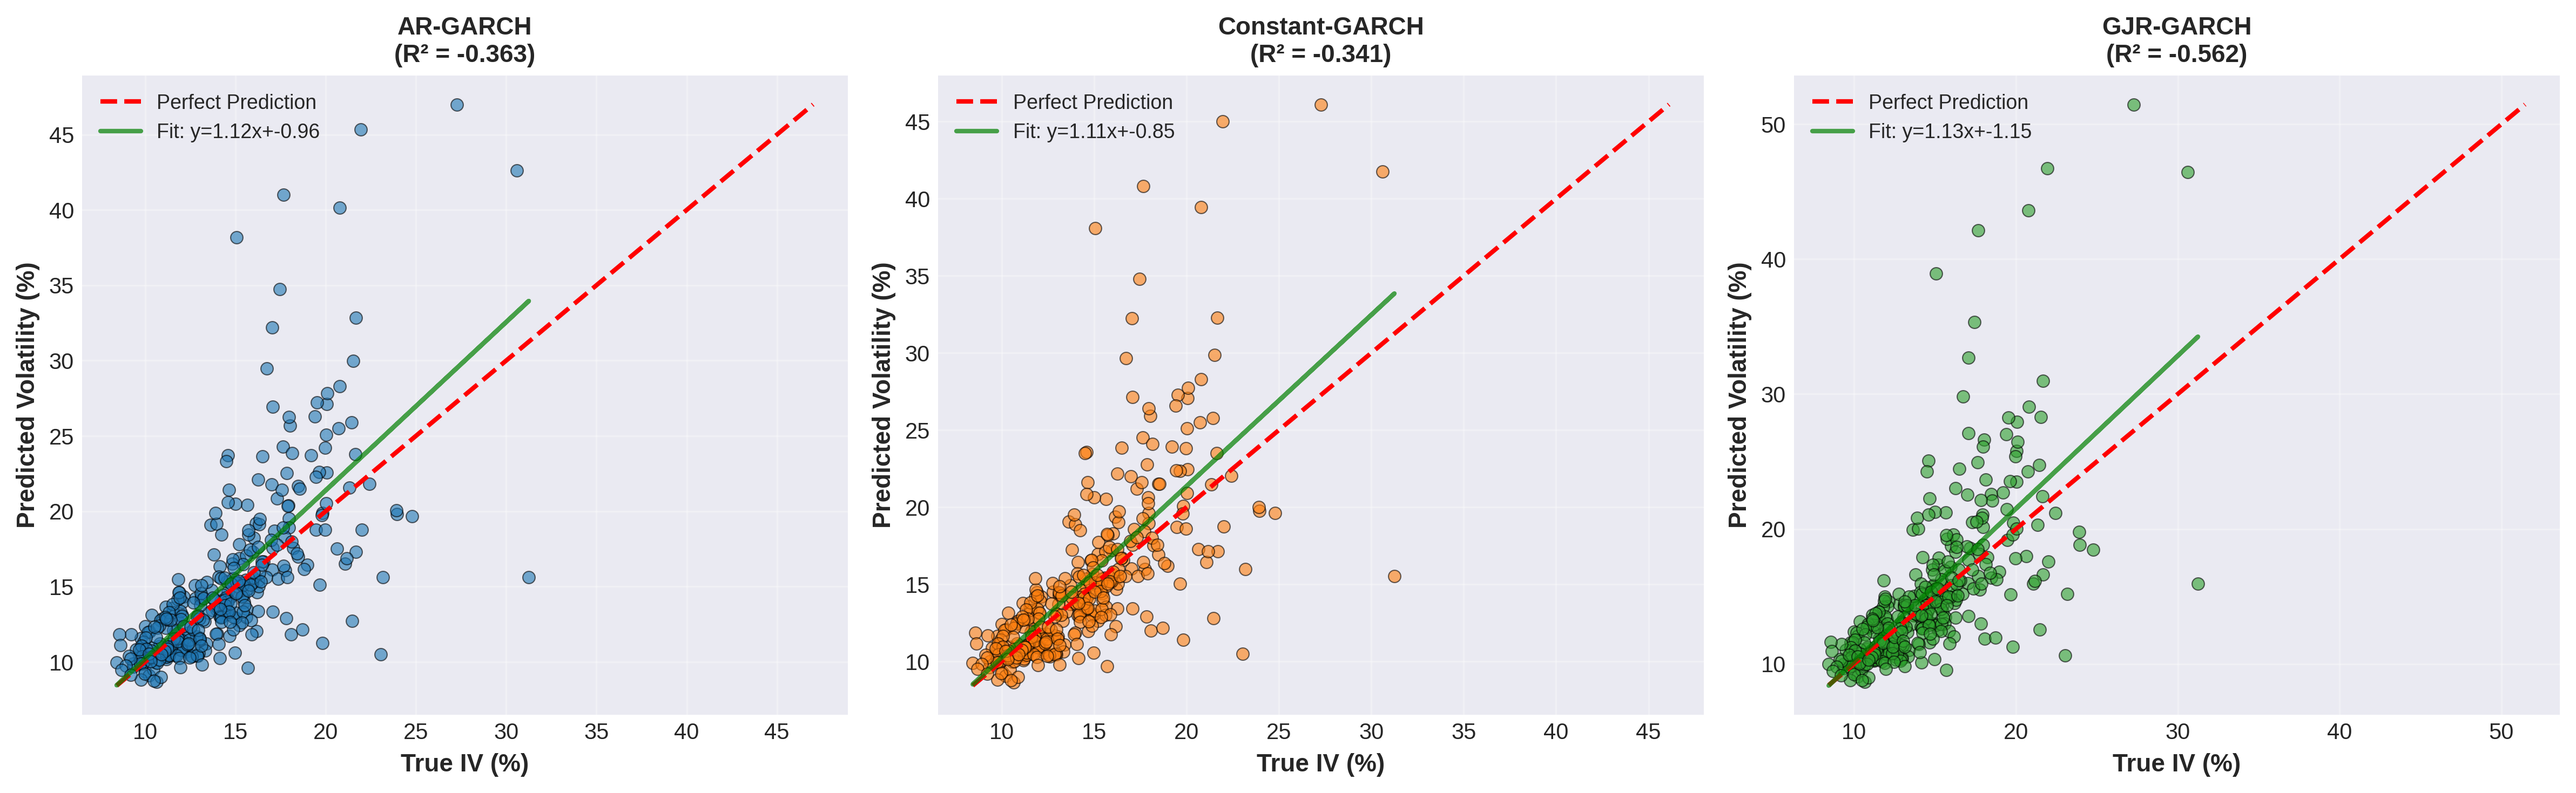
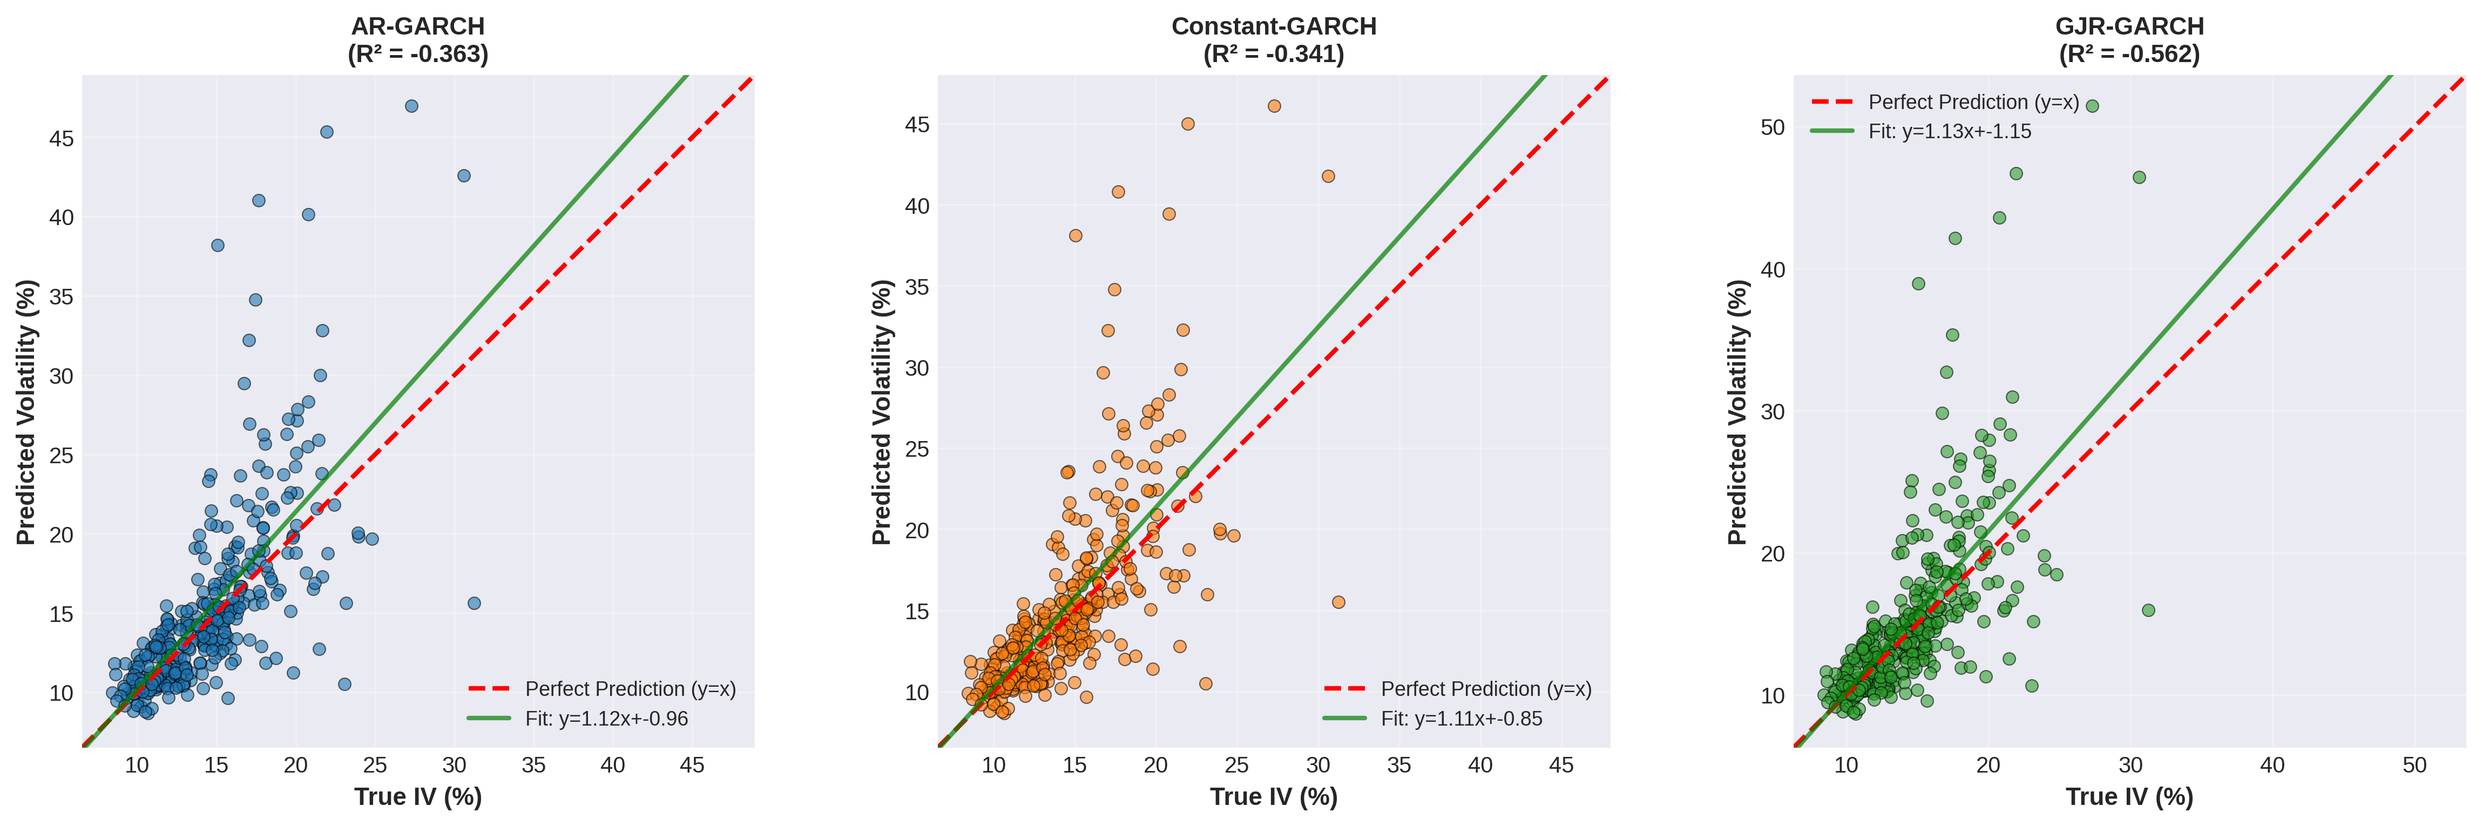
Fix scatter plot visualization issues
问题：
1. x轴和y轴范围不一致，导致45度线看起来不是45度
2. 图形纵横比不是1:1，视觉上扭曲
3. 回归线只画在数据点范围内，看起来太短
4. 图例说明不够清晰

修复：
1. 设置相同的xlim和ylim（基于数据的最大最小值）
2. 添加5%的padding让图形更美观
3. 设置aspect='equal'确保1:1纵横比，45度线真的是45度
4. 回归线画穿整个坐标轴范围，不只是数据点范围
5. 改进图例："Perfect Prediction (y=x)"更清楚
6. 使用zorder确保线条层次正确

现在散点图可以正确显示：
- 红色虚线(y=x)真的是45度
- 绿色回归线(y=1.11x-0.85)穿过整个图形
- 可以清楚看出预测值系统性高于真实值

diff --git a/garch_volatility_modeling.py b/garch_volatility_modeling.py
@@ -406,15 +406,28 @@ for idx, model_name in enumerate(forecasts.keys()):
 
     axes[idx].scatter(true_valid, pred_valid, alpha=0.6, s=30, color=colors[idx], edgecolor='black', linewidth=0.5)
 
-    # Add diagonal line (perfect prediction)
+    # Determine axis range (use same range for both axes to make 45-degree line visible)
     min_val = min(true_valid.min(), pred_valid.min())
     max_val = max(true_valid.max(), pred_valid.max())
-    axes[idx].plot([min_val, max_val], [min_val, max_val], 'r--', linewidth=2, label='Perfect Prediction')
 
-    # Add regression line
+    # Add some padding
+    padding = (max_val - min_val) * 0.05
+    axis_min = min_val - padding
+    axis_max = max_val + padding
+
+    # Set equal axis limits
+    axes[idx].set_xlim(axis_min, axis_max)
+    axes[idx].set_ylim(axis_min, axis_max)
+
+    # Add diagonal line (perfect prediction) - 45 degree line
+    axes[idx].plot([axis_min, axis_max], [axis_min, axis_max], 'r--', linewidth=2, label='Perfect Prediction (y=x)', zorder=1)
+
+    # Add regression line - draw across entire axis range
     z = np.polyfit(true_valid, pred_valid, 1)
     p = np.poly1d(z)
-    axes[idx].plot(true_valid, p(true_valid), 'g-', linewidth=2, alpha=0.7, label=f'Fit: y={z[0]:.2f}x+{z[1]:.2f}')
+    x_line = np.array([axis_min, axis_max])
+    y_line = p(x_line)
+    axes[idx].plot(x_line, y_line, 'g-', linewidth=2, alpha=0.7, label=f'Fit: y={z[0]:.2f}x+{z[1]:.2f}', zorder=2)
 
     axes[idx].set_xlabel('True IV (%)', fontsize=11, fontweight='bold')
     axes[idx].set_ylabel('Predicted Volatility (%)', fontsize=11, fontweight='bold')
@@ -422,6 +435,9 @@ for idx, model_name in enumerate(forecasts.keys()):
                         fontsize=11, fontweight='bold')
     axes[idx].legend(loc='best', fontsize=9)
     axes[idx].grid(True, alpha=0.3)
+
+    # Set aspect ratio to equal for proper 45-degree line visualization
+    axes[idx].set_aspect('equal', adjustable='box')
 
 plt.tight_layout()
 plt.savefig('figures/08_predicted_vs_true.png', dpi=300, bbox_inches='tight')

diff --git a/EXPERIMENT_REPORT.md b/EXPERIMENT_REPORT.md
@@ -1,6 +1,6 @@
 # GARCH Volatility Modeling Experiment Report
 
-**Date:** 2025-11-12 05:12:10
+**Date:** 2025-11-12 09:47:15
 **Target Asset:** Copper Futures (SHFE)
 **Experiment Objective:** Model and forecast volatility using GARCH-class models, validated against option-implied volatility
 
@@ -142,7 +142,7 @@ Distribution:                  Normal   AIC:                           3815.45
 Method:            Maximum Likelihood   BIC:                           3841.58
                                         No. Observations:                 1374
 Date:                Wed, Nov 12 2025   Df Residuals:                     1372
-Time:                        05:11:40   Df Model:                            2
+Time:                        09:46:46   Df Model:                            2
                                   Mean Model                                 
 =============================================================================
                  coef    std err          t      P>|t|       95.0% Conf. Int.
@@ -169,7 +169,7 @@ Distribution:                  Normal   AIC:                           3817.33
 Method:            Maximum Likelihood   BIC:                           3838.24
                                         No. Observations:                 1375
 Date:                Wed, Nov 12 2025   Df Residuals:                     1374
-Time:                        05:11:40   Df Model:                            1
+Time:                        09:46:46   Df Model:                            1
                                   Mean Model                                 
 =============================================================================
                  coef    std err          t      P>|t|       95.0% Conf. Int.
@@ -196,7 +196,7 @@ Distribution:                  Normal   AIC:                           3815.28
 Method:            Maximum Likelihood   BIC:                           3846.63
                                         No. Observations:                 1374
 Date:                Wed, Nov 12 2025   Df Residuals:                     1372
-Time:                        05:11:40   Df Model:                            2
+Time:                        09:46:46   Df Model:                            2
                                   Mean Model                                 
 =============================================================================
                  coef    std err          t      P>|t|       95.0% Conf. Int.
